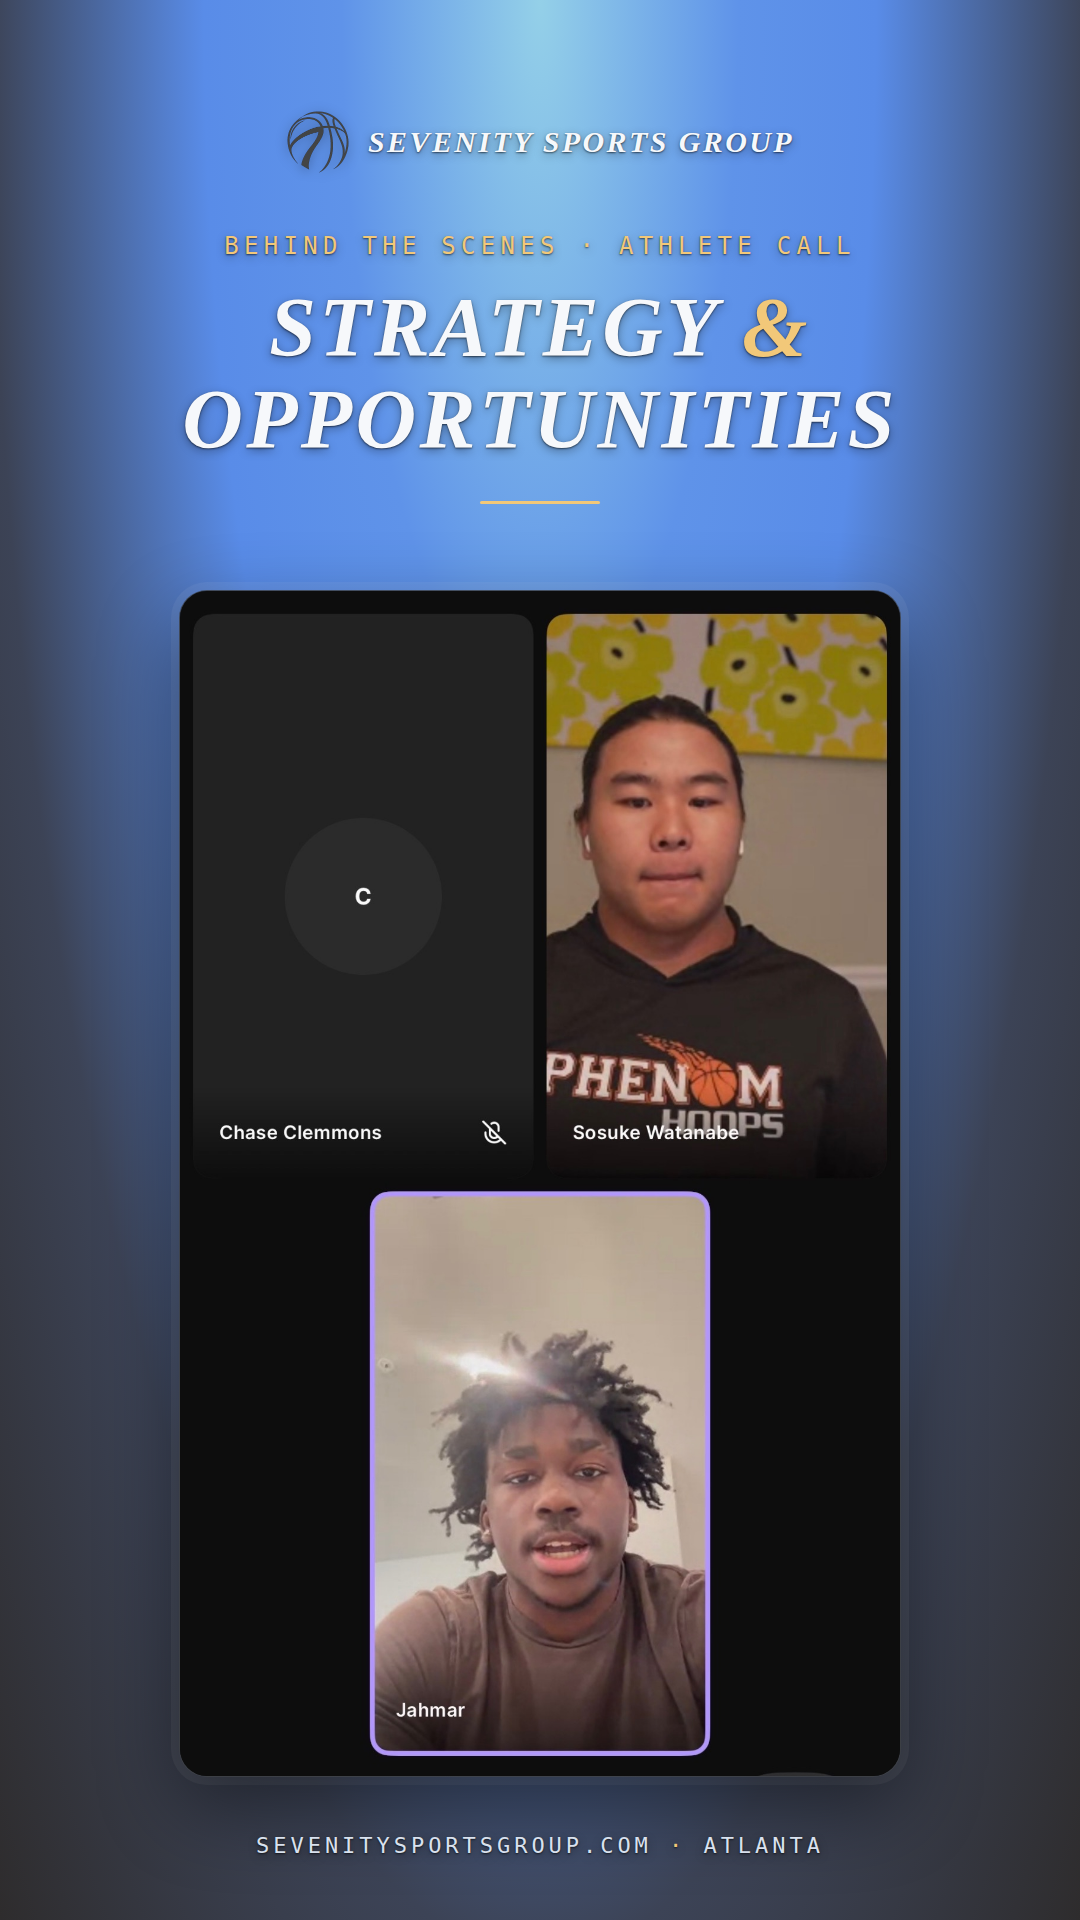
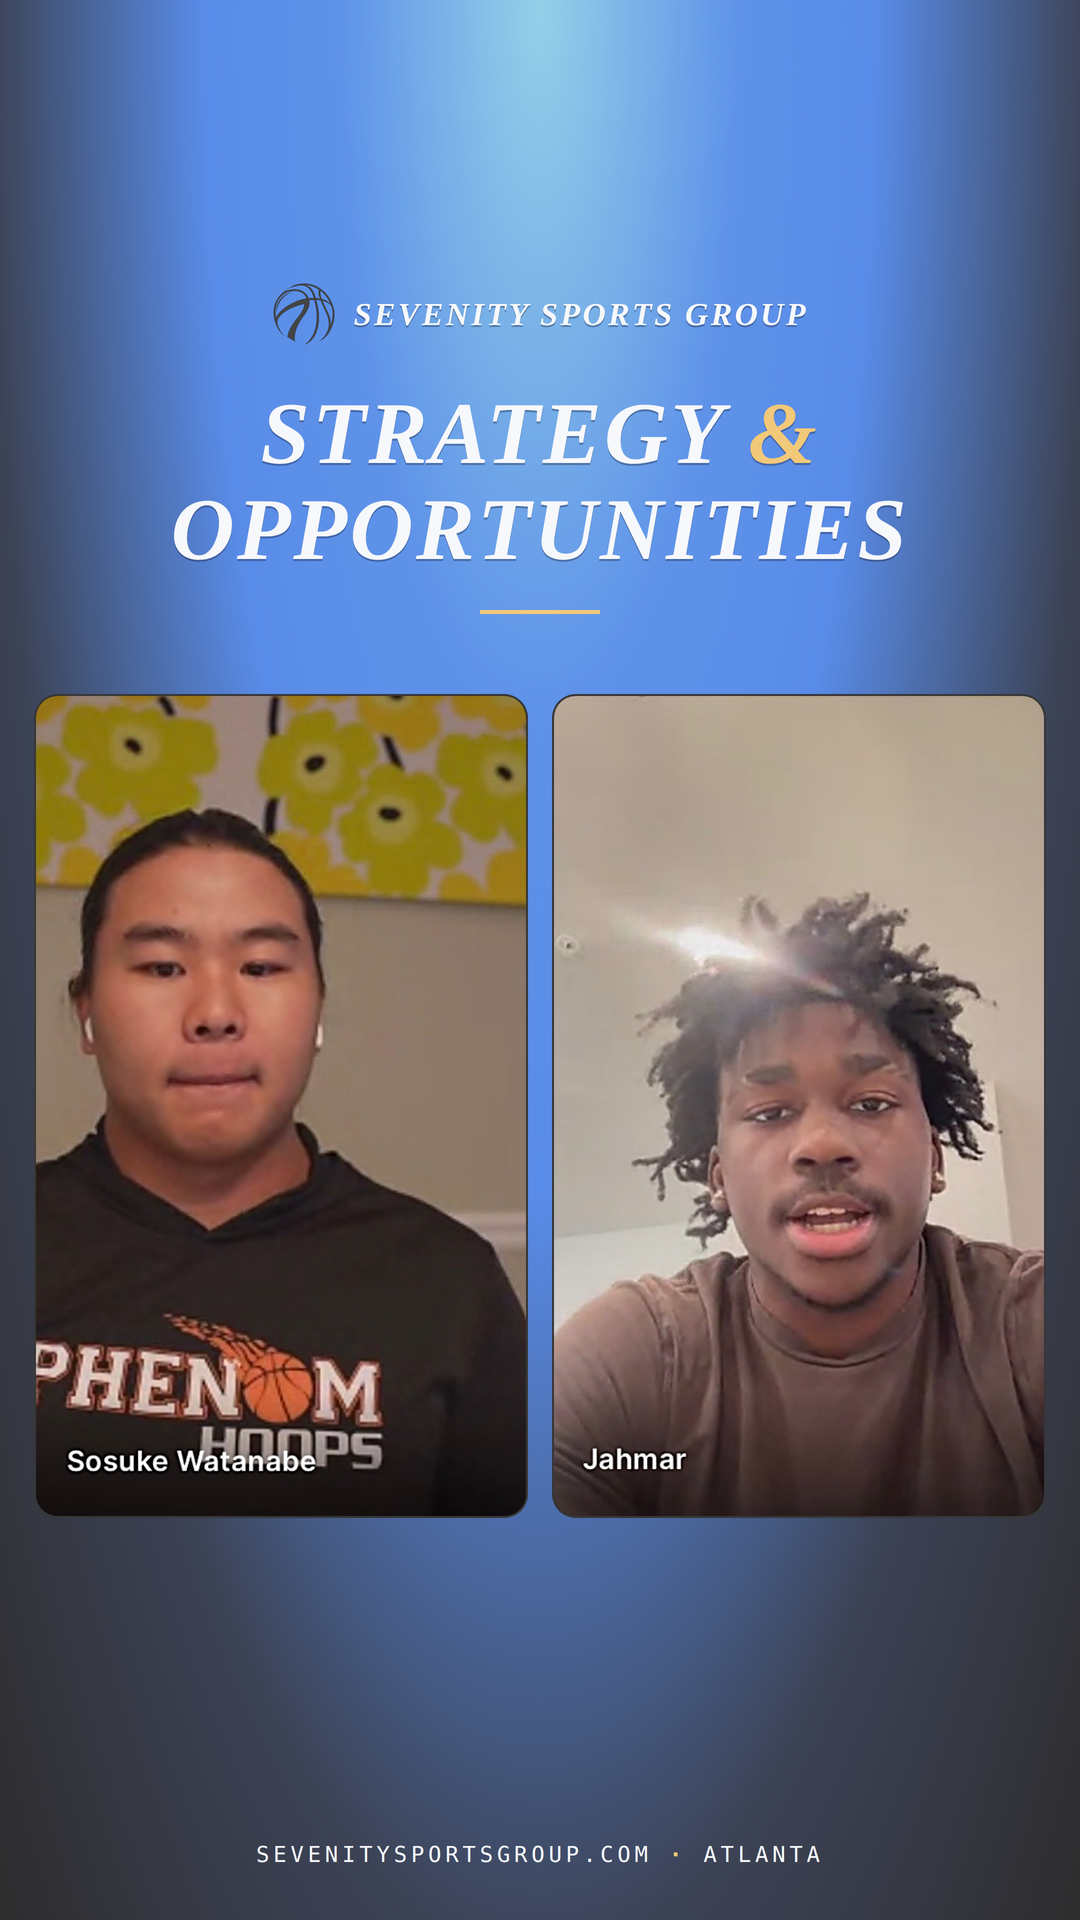
Story: remove Chase's placeholder tile, sharpen and declutter
Crop Sosuke's and Jahmar's video tiles out of the call screenshot
(dropping the call-app chrome and the empty 'C' tile), sharpen them,
and lay them side by side. Drop the soft text halos and card glow,
remove the extra label line, and render at 2x then downsample so type
edges come out crisp at 1080x1920.

Claude-Session: https://claude.ai/code/session_0146Hdmg9cTnEAb9rGfu4epu

diff --git a/social/stories/strategy-and-opportunities/story.html b/social/stories/strategy-and-opportunities/story.html
@@ -20,37 +20,40 @@
 html,body{margin:0;padding:0}
 body{
   width:1080px;height:1920px;overflow:hidden;position:relative;
-  color:var(--ink);font-family:var(--f-serif);-webkit-font-smoothing:antialiased;
+  color:var(--ink);font-family:var(--f-serif);
+  -webkit-font-smoothing:antialiased;text-rendering:geometricPrecision;
   background-color:#2e2c2d;
   background-image:radial-gradient(ellipse at 50% 0%, #94d0e8 0%, #5f93e9 26%, #598ce8 44%, #3c4356 72%, #2e2c2d 100%);
-  text-shadow:0 1px 2px rgba(0,0,0,.6),0 3px 10px rgba(0,0,0,.35);
 }
-.top{position:absolute;top:110px;left:0;right:0;text-align:center}
-.brand{display:inline-flex;align-items:center;gap:18px;font-style:italic;font-weight:700;font-size:30px;letter-spacing:.08em;text-transform:uppercase}
-.brand img{width:64px;height:64px;filter:drop-shadow(0 2px 6px rgba(0,0,0,.35))}
-.lab{margin-top:54px;font-family:var(--f-m);font-weight:500;font-size:24px;letter-spacing:.22em;text-transform:uppercase;color:var(--gold)}
-h1{margin:22px auto 0;max-width:940px;font-style:italic;font-weight:700;text-transform:uppercase;letter-spacing:.04em;line-height:1.1;font-size:84px}
+/* Tight, hard-edged shadow only: keeps white type legible on the light top
+   of the gradient without the soft halo that read as blur. */
+/* Header and tiles are one centered column; the footer is pinned below. */
+.main{position:absolute;top:0;left:0;right:0;bottom:120px;display:flex;flex-direction:column;align-items:center;justify-content:center}
+.top{text-align:center;text-shadow:0 2px 0 rgba(20,30,55,.35)}
+.brand{display:inline-flex;align-items:center;gap:18px;font-style:italic;font-weight:700;font-size:32px;letter-spacing:.08em;text-transform:uppercase}
+.brand img{width:64px;height:64px}
+h1{margin:36px auto 0;max-width:980px;font-style:italic;font-weight:700;text-transform:uppercase;letter-spacing:.03em;line-height:1.08;font-size:88px}
 h1 .amp{color:var(--gold)}
-.rule{width:120px;height:3px;background:var(--gold);margin:34px auto 0;border-radius:2px}
-.card{
-  position:absolute;left:50%;top:590px;transform:translateX(-50%);
-  width:720px;height:1185px;border-radius:28px;overflow:hidden;
-  border:1px solid var(--line);background:var(--glass);
-  box-shadow:0 30px 80px rgba(0,0,0,.45),0 0 0 8px rgba(255,255,255,.06);
-}
-.card img{width:100%;height:100%;object-fit:cover;object-position:center 38%;display:block}
-.foot{position:absolute;bottom:62px;left:0;right:0;text-align:center;font-family:var(--f-m);font-size:22px;letter-spacing:.18em;text-transform:uppercase;color:var(--ink-2)}
-.foot b{color:var(--gold);font-weight:500}
+.rule{width:120px;height:4px;background:var(--gold);margin:32px auto 0}
+.tiles{display:flex;gap:24px;margin-top:80px}
+.tile{width:490px;height:820px;border-radius:24px;overflow:hidden;border:2px solid var(--line);background:#0b0b0d}
+.tile img{width:100%;height:100%;display:block}
+.foot{position:absolute;bottom:52px;left:0;right:0;text-align:center;font-family:var(--f-m);font-weight:500;font-size:22px;letter-spacing:.18em;text-transform:uppercase;color:var(--ink)}
+.foot b{color:var(--gold)}
 </style>
 </head>
 <body>
-  <div class="top">
-    <div class="brand"><img src="mark.png" alt="">Sevenity Sports Group</div>
-    <div class="lab">Behind the scenes · Athlete call</div>
-    <h1>Strategy <span class="amp">&amp;</span> Opportunities</h1>
-    <div class="rule"></div>
+  <div class="main">
+    <div class="top">
+      <div class="brand"><img src="mark.png" alt="">Sevenity Sports Group</div>
+      <h1>Strategy <span class="amp">&amp;</span> Opportunities</h1>
+      <div class="rule"></div>
+    </div>
+    <div class="tiles">
+      <div class="tile"><img src="tile-sosuke.png" alt="Sosuke Watanabe on the video call"></div>
+      <div class="tile"><img src="tile-jahmar.png" alt="Jahmar on the video call"></div>
+    </div>
   </div>
-  <div class="card"><img src="call.jpg" alt="Video call with Chase Clemmons, Sosuke Watanabe and Jahmar"></div>
   <div class="foot">sevenitysportsgroup.com <b>·</b> Atlanta</div>
 </body>
 </html>
